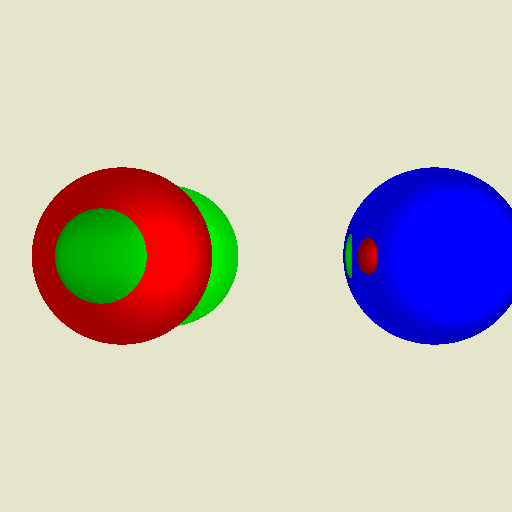
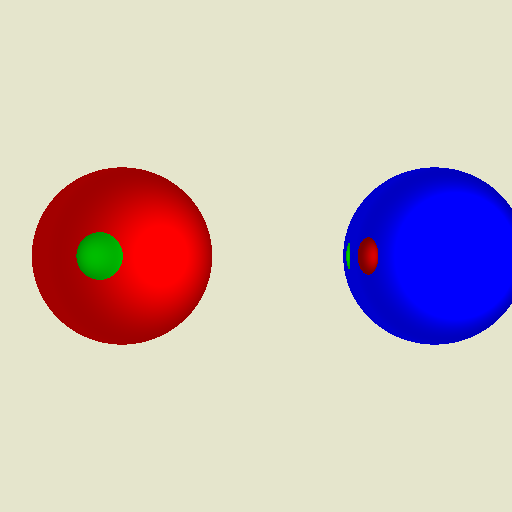
Hidding green sphere behind red one

Changed region(s): [[0.0938, 0.4062, 0.3125, 0.5938], [0.3438, 0.3438, 0.4688, 0.6562], [0.6562, 0.4375, 0.6875, 0.5625]]

diff --git a/Ex.6/main.py b/Ex.6/main.py
@@ -18,10 +18,10 @@ o_cam = OrthogonalCamera(position=Vec3(0, 0, 0), view_direction=Vec3(0, 0, 1), w
 texture = Texture('sample_texture.png')
 material_dull = Material(material_type=MaterialType.Dull)
 material_reflective = Material(material_type=MaterialType.Reflective)
-material_refractive = Material(material_type=MaterialType.Refractive, index_of_refraction=1.2)
+material_refractive = Material(material_type=MaterialType.Refractive, index_of_refraction=4)
 
 primitives1 = [
-    Sphere(Vec3(-1.5, 0, 12), 1.2, [0, 1, 0], material_dull),
+    Sphere(Vec3(-1.5, 0, 12), 0.7, [0, 1, 0], material_dull),
     Sphere(Vec3(2, 0, 8), 1, [0, 0, 1], material_reflective),
     Sphere(Vec3(-1.5, 0, 8), 1, [1, 0, 0], material_refractive)
 ]

diff --git a/Ex.6/Primitives/ray.py b/Ex.6/Primitives/ray.py
@@ -140,7 +140,7 @@ class Ray:
 
     ## Iterates through list of primitives and lights and calculates pixel color
     def get_pixel_color(self, primitives, lights, recursion_number=0):
-        recursion_limit = 2
+        recursion_limit = 3
 
         hit = self.get_pixel_hit(primitives)
 
